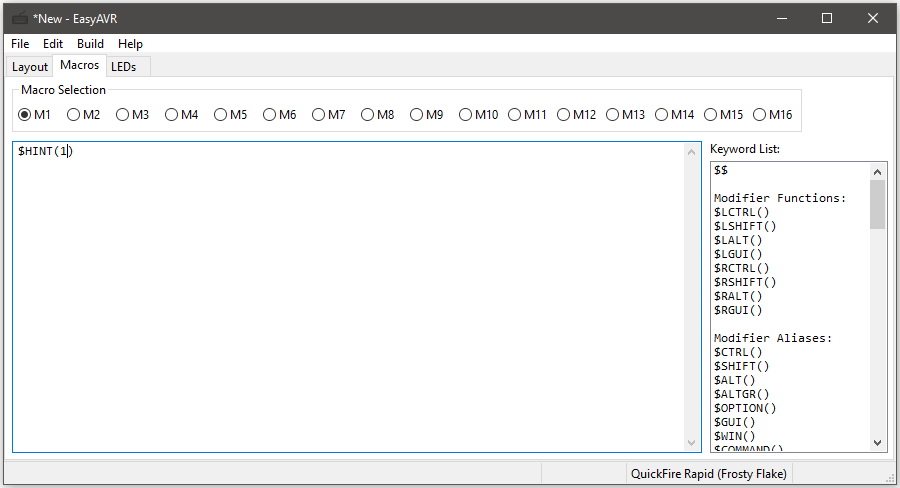
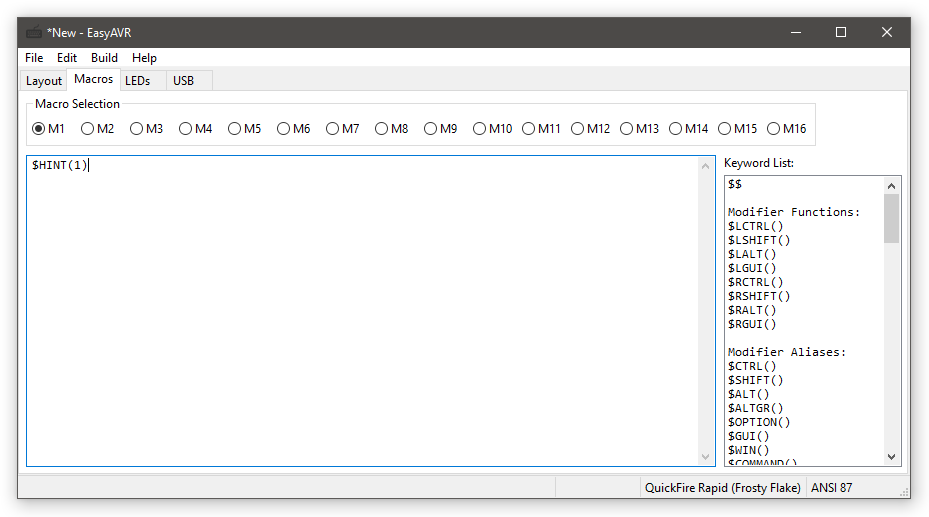
Update docs for new keymapper features (Issue #73)

Changed region(s): [[0.0, 0.0, 1.0, 1.0]]

diff --git a/docs/source/usb.rst b/docs/source/usb.rst
@@ -1,0 +1,43 @@
+
+USB Options
+===========
+
+An EasyAVR keyboard actually appears as four devices when it is plugged in to 
+a PC.  Each is called an "HID endpoint", where HID stands for Human Interface 
+Device.  The extra devices are required for some of the advanced features of 
+the firmware.  In most cases it is best to simply leave all of them enabled. 
+However, in some situations the extra devices cause problems.  Therefore, 
+they may be optionally disabled.  This may help work around problems on 
+platforms that are confused by the extra endpoints, but it will prevent those 
+features from working.
+
+.. image:: easykeymap_ss8.png
+
+Endpoints
+---------
+
+Keyboard
+    This is a standards-compliant USB HID keyboard.  In other words, this is a
+    basic keyboard with no special features.  It is boot compatible, which
+    means it requires no driver and will work with BIOS setup screens.  Per the
+    spec, it supports 6-key rollover.  This endpoint is required and cannot be
+    disabled.
+
+Media/Power
+    This endpoint, combined with the Keyboard endpoint, implements a Microsoft
+    Windows "Enhanced Keyboard".  It provides "consumer controls" which are the
+    media keys, and "system power control" which are the power keys
+    (SCANCODE_NEXT_TRACK through SCANCODE_FAVES and SCANCODE_POWER through
+    SCANCODE_WAKE in the :doc:`functions` chapter).
+
+NKRO
+    This is an additional keyboard endpoint that provides n-key rollover.  With
+    n-key rollover, any number of keys may be pressed at the same time.  In
+    other words, there is no 6 key limit.  This endpoint may not be available
+    on extremely limited devices, such as the Techkeys Card.
+
+Mouse
+    This is a standards-compliant USB HID Mouse.  It allows the use of mouse
+    keys (SCANCODE_MOUSE1 through SCANCODE_MOUSEYU in the :doc:`functions`
+    chapter).  This endpoint may not be available on extremely limited devices,
+    such as the Techkeys Card.

diff --git a/docs/source/console.rst b/docs/source/console.rst
@@ -40,12 +40,8 @@ Default Layer
     would be set to 0.
 
 Keyboard Features
-    This setting allows you to progressively disable features of the keyboard
-    until is works exactly as a HID-compliant boot-compatible USB keyboard.
-    You can optionally disable the NKRO interface (6KRO), the mouse interface,
-    and the media/power keys interface.  This may help work around problems
-    on platforms that are confused by the extra endpoints.  This setting will
-    not take effect until the keyboard is unplugged.
+    This setting allows you to disable the NKRO feature so that the keyboard
+    works exactly as a HID-compliant boot compatible USB keyboard.
 
 Unlink Num Lock
     Activating this setting will cause the keyboard or numpad to ignore the

diff --git a/docs/source/getstarted.rst b/docs/source/getstarted.rst
@@ -17,8 +17,9 @@ every key the hardware supports is shown.  Layout mods are discussed in
 
 You are presented with a view of the keyboard with a default map already 
 assigned to the keys on the first layer (AKA the "default" layer).  In 
-addition to the "Layout" view, there are also tabs for "Macros" and "LEDs".  
-They are discussed in the :doc:`macros` and :doc:`leds` chapters, respectively.
+addition to the "Layout" view, there are also tabs for "Macros", "LEDs", and 
+"USB".  They are discussed in the :doc:`macros`, :doc:`leds`, and :doc:`usb` 
+chapters, respectively.
 
 Your keymap can use up to 10 different layers.  Layers are discussed in the 
 :doc:`functions` chapter.  To open a layer for editing, select it using the 

diff --git a/docs/source/userguide.rst b/docs/source/userguide.rst
@@ -14,6 +14,7 @@ New users should read all the documents in this section.
    functions
    macros
    leds
+   usb
    console
    cfgfiles
    newboard
